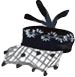
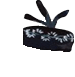
shadow

diff --git a/final/style.css b/final/style.css
@@ -85,8 +85,13 @@
   transition: all 0.5s, top 0s, left 0s ease-in-out; /* clothes drop back down smoothly */
 }
 .clothes-image:hover {
-  filter: drop-shadow(5px 5px 20px #5A514A); /* puts shadow behind image instead of image box */
+  /* filter: drop-shadow(5px 5px 20px #5A514A); puts shadow behind image instead of image box */
+  /* transition: all 0.5s, top 0s, left 0s ease-in-out; smooth pick up */
+}
+.clothes-image.pickedup {
+  filter: drop-shadow(5px 5px 30px #5A514A); /* puts shadow behind image instead of image box */
   transition: all 0.5s, top 0s, left 0s ease-in-out; /* smooth pick up */
+  transform: scale(1.01);
 }
 .clothes-image.resetting {
   transition: top 1s, left 1s; /* all clothes move back to their spot in 1s */
@@ -176,7 +181,7 @@
 #hat2 {
   height: 12vh;
   top: 15vh;
-  left: 80vw;
+  left: 77vw;
 }
 
 

diff --git a/final/final.js b/final/final.js
@@ -6,6 +6,7 @@ const reset = document.querySelector('#reset');
 clothes1.forEach((clothesImage) => {
 	clothesImage.onmousedown = function(event) {
     clothesImage.classList.remove("resetting");
+    clothesImage.classList.add("pickedup");
 
     clothesImage.style.zIndex = 10;
 
@@ -36,6 +37,7 @@ clothes1.forEach((clothesImage) => {
       document.body.removeEventListener('pointerleave', onPointerLeave);
       clothesImage.onmouseup = null;
       clothesImage.style.zIndex = "";
+      clothesImage.classList.remove("pickedup");
     }
     function onPointerLeave(event) {
       cleanup();
@@ -63,3 +65,4 @@ reset.onclick = function(event) {
     clothesImage.style = "";
   });
 }
+
